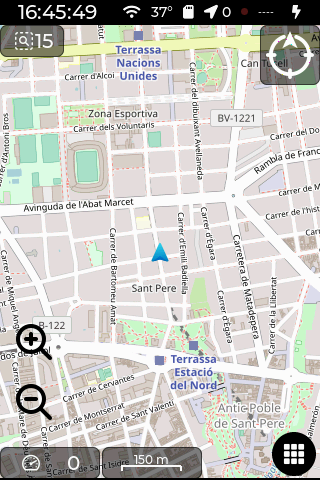
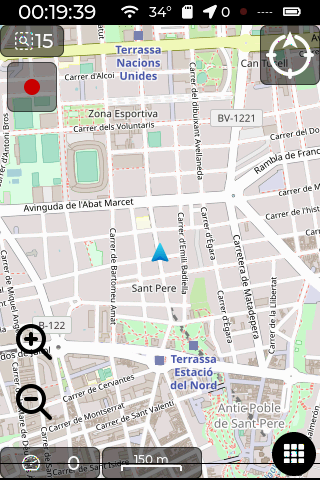
docs: Update README.md and screenshots

diff --git a/README.md b/README.md
@@ -192,6 +192,34 @@ On SD Card route files should be stored, in these folders structure:
             |_______ [ 📁 WALK ] 
                           |_______ 🔀 ROUTE.bin                                                    
 
+## SD Track Logger File structure
+
+IceNav includes a built-in GPX data logger that records your activity directly to the SD card. Recording is controlled from a **REC** button on the map screen, with adaptive sampling, auto-pause on low speed and a summary screen on stop.
+
+Tracks are stored as GPX 1.1 files in the `TRK` folder. This folder holds both the tracks recorded by the device (named after the local start time) and any external tracks you add manually — for example GPX files downloaded from the web or exported from other apps and tools:
+
+      [ 📁 TRK ]
+            |_______ 🛰 YYYYMMDD_HHMMSS.gpx   (recorded by the device)
+            |_______ 🛰 my_downloaded_route.gpx   (added manually)
+            |_______ ...
+
+The logger supports three activity profiles, selectable from **Settings → Device → Logger Profile**. The selected profile is stored in the `logProfile` preference `0` = Walk (default), `1` = Bike, `2` = Car. Each profile tunes the auto-pause threshold, sampling interval and minimum distance between points:
+
+| Profile | Pause speed | Pause delay | Min interval | Max interval | Min distance | Reference speed |
+|---------|-------------|-------------|--------------|--------------|--------------|-----------------|
+| Walk    | 0.5 km/h    | 5 s         | 1000 ms      | 5000 ms      | 2 m          | 10 km/h         |
+| Bike    | 2.0 km/h    | 10 s        | 2000 ms      | 15000 ms     | 8 m          | 40 km/h         |
+| Car     | 5.0 km/h    | 30 s        | 5000 ms      | 30000 ms     | 25 m         | 130 km/h        |
+
+## SD Waypoint File structure
+
+IceNav stores waypoints as GPX files in the `WPT` folder. Waypoints created on the device (from **Add Waypoint**) are saved to the default `waypoint.gpx` file. You can also add your own GPX files manually — for example waypoints downloaded from the web or exported from other apps and tools. Each file may contain a single `<wpt>` or multiple ones, and all `.gpx` files found in the folder are loaded:
+
+      [ 📁 WPT ]
+            |_______ 📍 waypoint.gpx   (created by the device)
+            |_______ 📍 my_waypoints.gpx   (added manually, one or more waypoints)
+            |_______ ...
+
 ## Mass Copy Script for Map Tiles
 
 For efficient transfer of millions of map tiles to SD cards or external storage devices, IceNav includes a high-performance mass copy script. This script is optimized for copying large numbers of small files (such as map tiles) and can reduce transfer time from hours to minutes.
@@ -312,6 +340,7 @@ Some extra details:
     kalmanR     custom          0.60000000     Def. Kalman Filter const. Measurement noise covariance (0-1)
  routeSpeed     custom          130            Max speed (km/h) for A* heuristic: 130=car, 25=bike, 5=walk. Selects ROUTE/CAR|BIKE|WALK/ROUTE.bin on SD card.
 nmeaDbgTile     custom          false          Show the NMEA debug tile 
+ logProfile     custom          0              GPX logger activity profile index: 0 = Walk (default), 1 = Bike, 2 = Car.
 
 
 ```          
@@ -353,22 +382,7 @@ The Web File Server will start automatically if default automatic network connec
 
 To access the Web File Server, simply use any browser and go to the following address: http://icenav.local
 
-## TO DO
-
-- [X] LVGL 9 Integration
-- [X] Support other resolutions and TFT models
-- [X] Support for ready-made boards 
-- [X] Wifi CLI Manager
-- [X] LVGL Optimization 
-- [X] GPX Integration
-- [ ] Multiple IMU's and Compass module implementation
-- [X] Power saving
-- [X] Vector maps
-- [X] Google Maps navigation style (turn by turn)
-- [X] Optimize code
-- [X] Fix bugs!
-- [X] Web file server
-      
+   
 
 ## Special thanks to....
 * [@hpsaturn](https://github.com/hpsaturn) Thanks to him and his knowledge, this project is no longer sitting in a drawer :smirk:.
